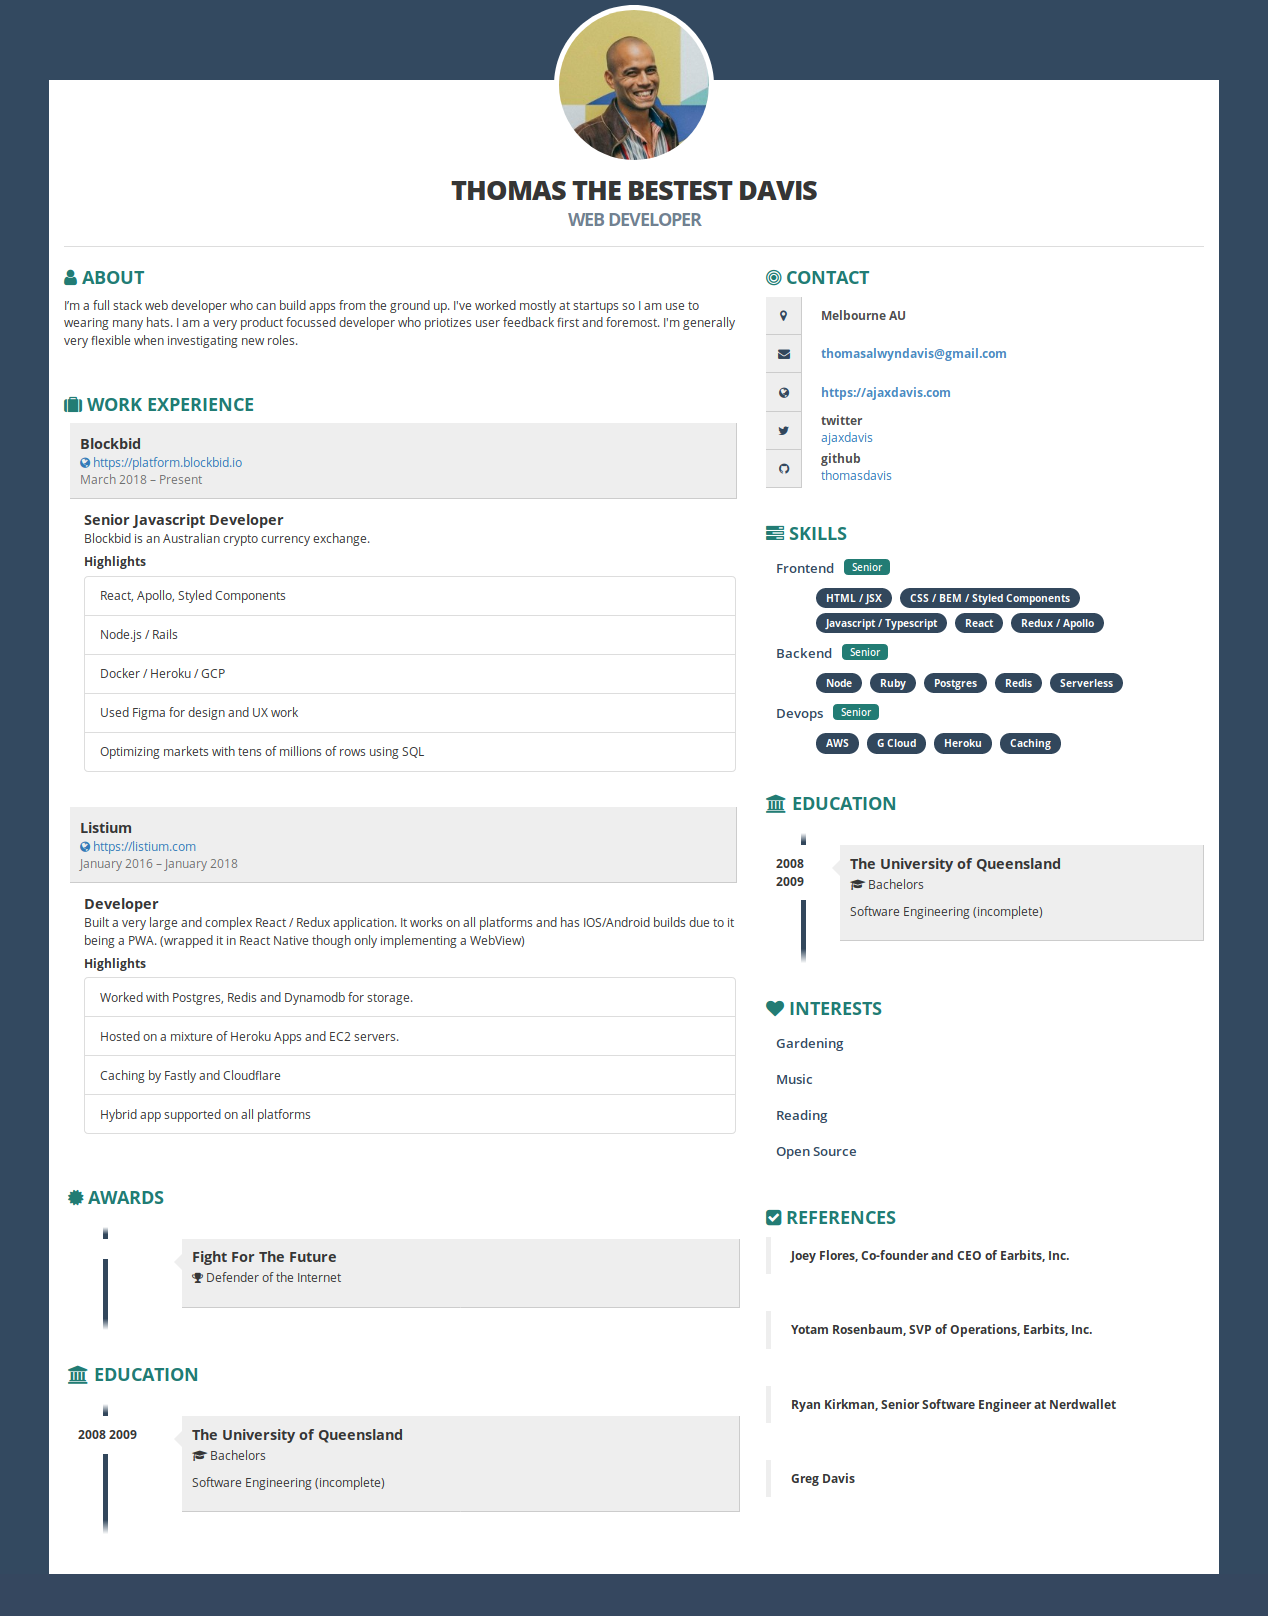
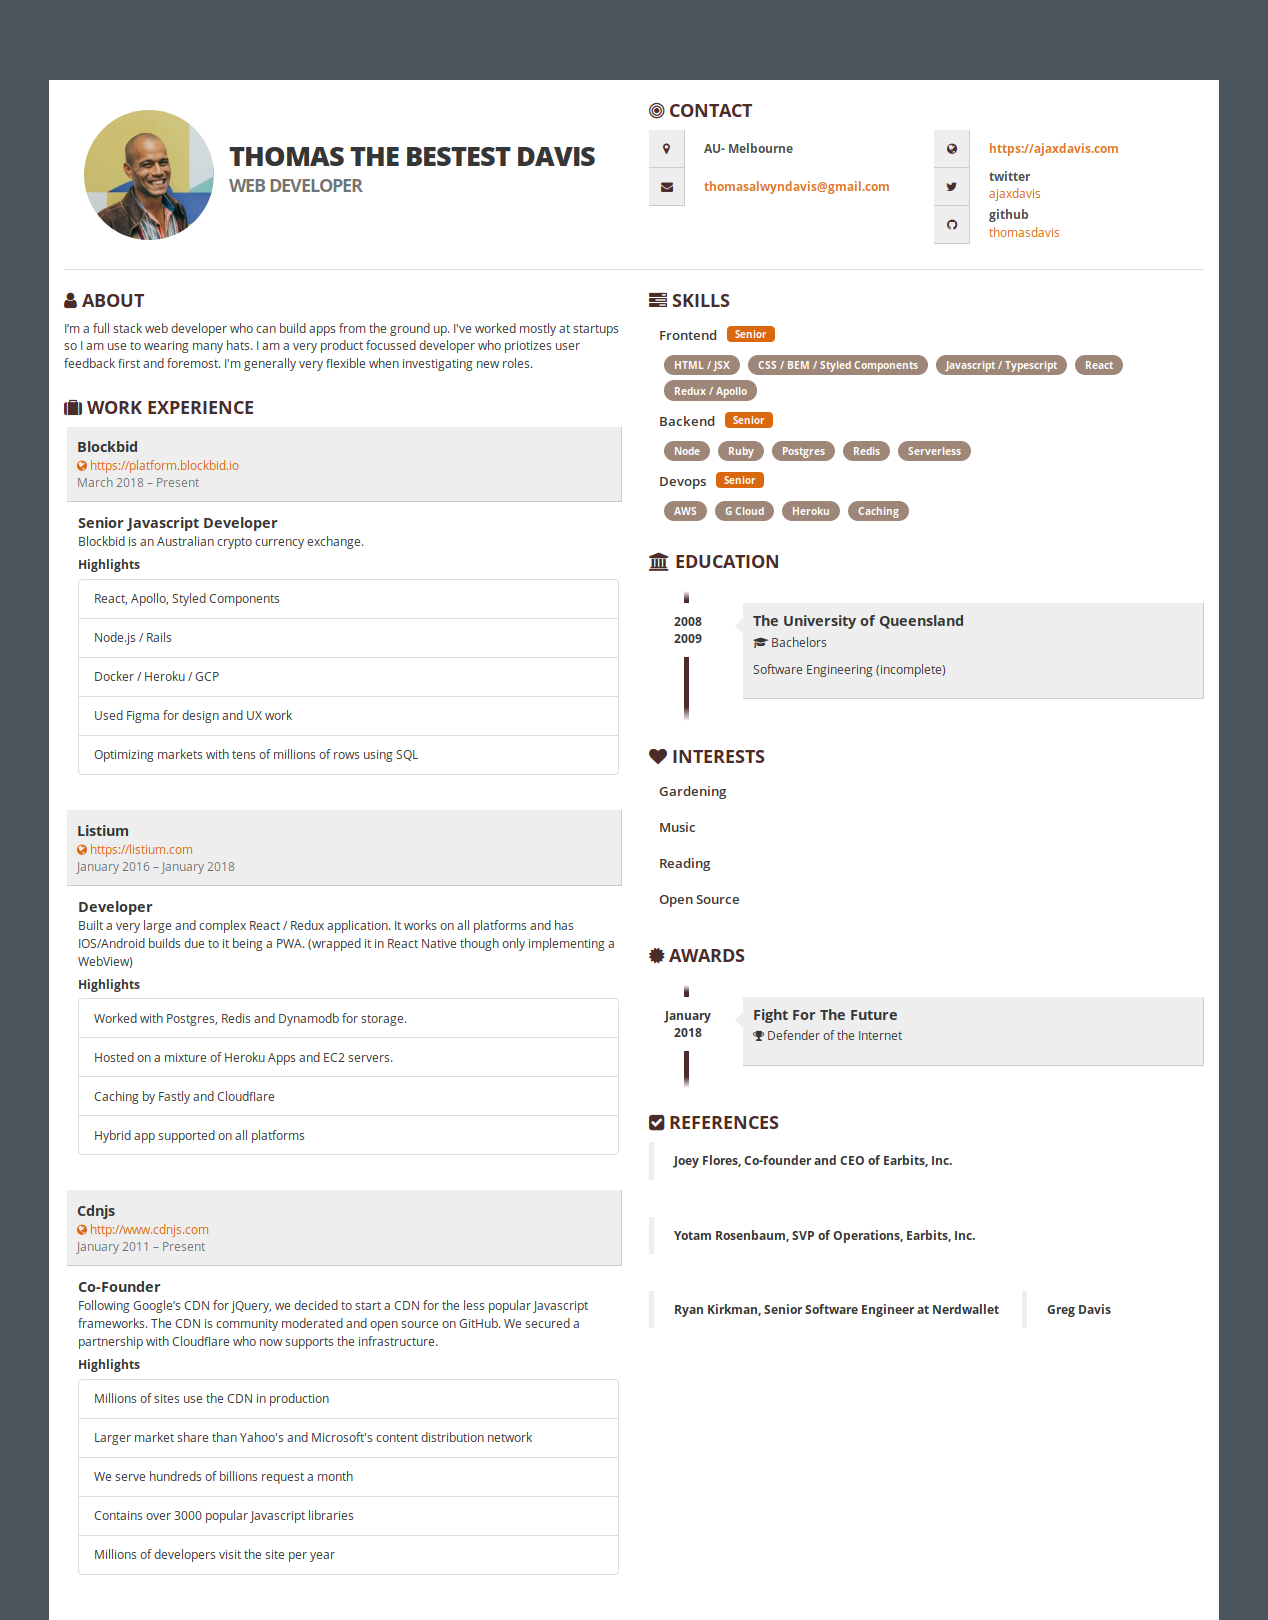
Adjust font color to gray + add an updated project overview image

diff --git a/style.css b/style.css
@@ -11,13 +11,14 @@
   --secondary-color: #9e8778;
   --background-color: #4d555e;
   --notification-color: #DA680F;
+  --font-color: #363636;
 }
 
 body {
   font-family: 'Open Sans', Arial, Tahoma;
   font-weight: 400;
   font-size: 12px;
-  color: #363636;
+  color: var(--font-color,#363636);
   background: var(--background-color,#334960);
 }
 
@@ -105,7 +106,7 @@ blockquote {
 }
 
 #text-header h1 span {
-  color: #334960;
+  color: var(--font-color,#334960);
   opacity: 0.7;
 }
 
@@ -318,7 +319,7 @@ blockquote {
 .contact-item .description {
   width: 80%;
   width: calc(100% - 55px);
-  color: #334960;
+  color: var(--font-color,#334960);
 }
 
 .list-group-item {
@@ -328,7 +329,7 @@ blockquote {
 .item-interests,
 .item-skills {
   height: 30px;
-  color: #334960;
+  color: var(--font-color,#334960);
   padding: 5px 10px;
   margin-bottom: 5px;
   white-space: nowrap;
